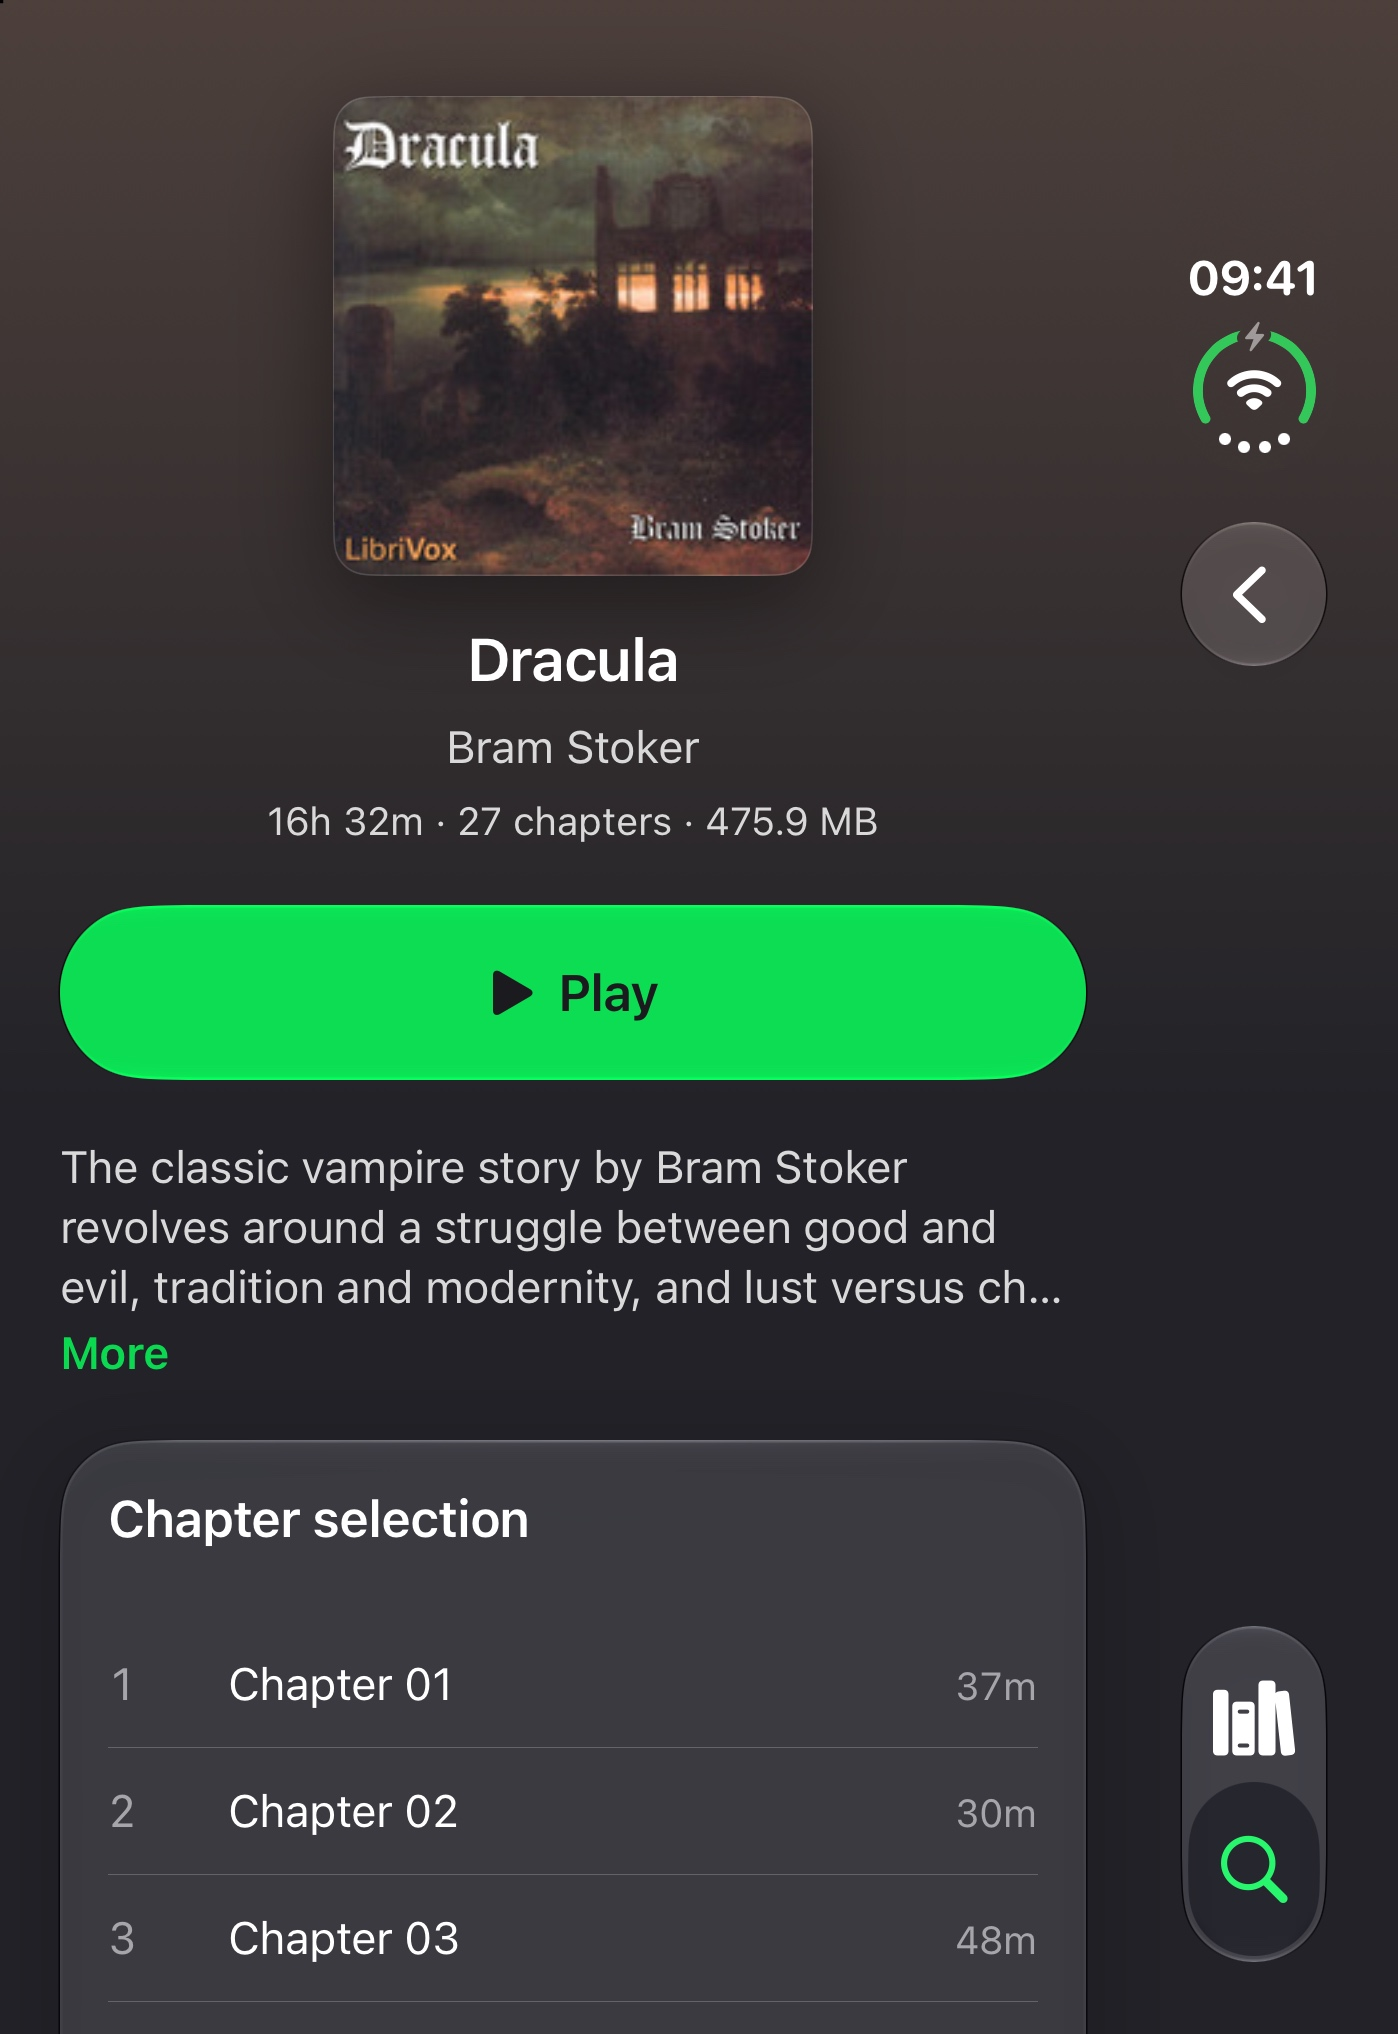
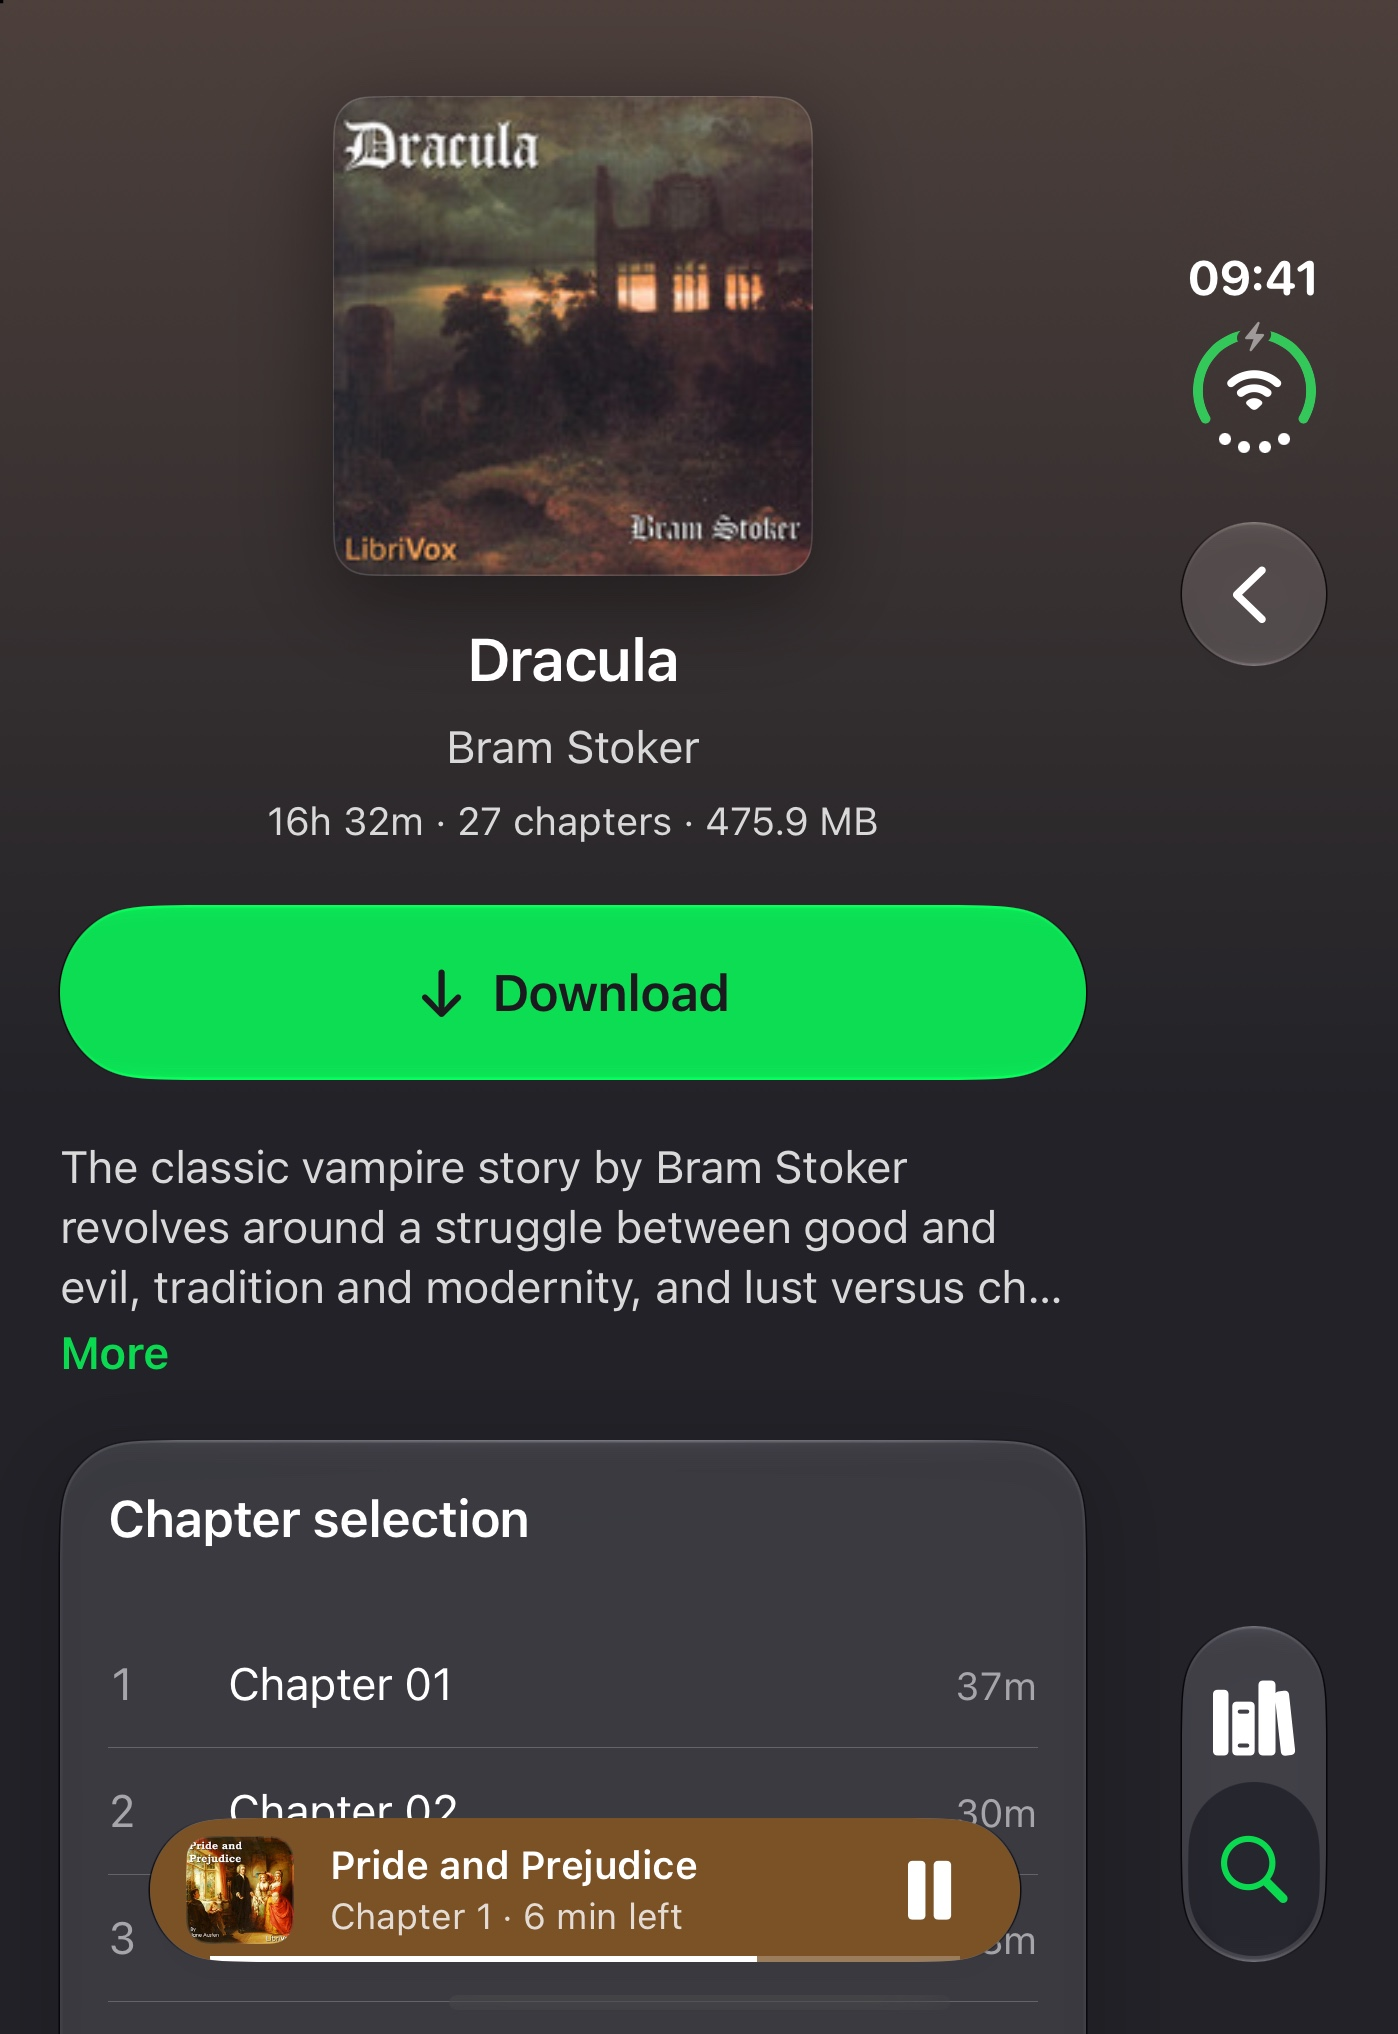
docs(store): iPad and iPhone Duo App Store screenshots for 1.3.0; capture.sh (#282)
Part of #265 (iPad screenshots) and #252 (reproducible capture).

## What shipped

**New and retaken App Store screenshots, from 1.3.0's adaptive layout,** in en-US and pt-BR, with the same libraries as before:
- **English:** *Pride and Prejudice* playing, Popular on LibriVox, *Dracula*'s page.
- **Brazilian:** *Dom Casmurro* playing, a "Machado de Assis" search, *O Alienista*'s page.

| Slot | Files | Size | |
|---|---|---|---|
| iPad 13-inch | `ipad-13_*` | 2064 × 2752 | **New**: required now that Abbay is universal |
| iPhone Duo, inner display | `duo-inner_*` | 2853 × 2007 | Retaken: the split layout instead of a centred phone column |
| iPhone Duo, outer display | `duo-outer_*` | 1398 × 2034 | Retaken: the grid fits beside the side strip, and the player clears it |

The iPhone 6.9" and 6.3" sets are unchanged (the owner's call: their portrait layout didn't change). All 30 new files are JPEG, RGB, with no alpha channel.

**Capture tooling (#252), now in the repo:**
- `StoreConfig/screenshots/capture.sh <udid> <en-US|pt-BR> <slot> [library-udid]` builds the app, copies a language's demo library into the simulator and sets a 9:41 status bar.
- It then runs `StoreScreenshotsUITests/test_storeScreens`, which drives the five screens and requests each shot. The script takes it with `simctl io screenshot`, the only capture that sees the unfolded Duo's inner display, and writes the JPEGs.
[…]

Changed region(s): [[0.0923, 0.8673, 0.7382, 0.9912], [0.3076, 0.4646, 0.5229, 0.4956], [0.8612, 0.8982, 0.9227, 0.9292]]

diff --git a/AbbayUITests/StoreScreenshotsUITests.swift b/AbbayUITests/StoreScreenshotsUITests.swift
@@ -1,0 +1,207 @@
+//
+//  StoreScreenshotsUITests.swift
+//  AbbayUITests
+//
+
+import XCTest
+
+/// Drives the five App Store screens (#252) on a simulator that holds a demo library, and asks
+/// `StoreConfig/screenshots/capture.sh` to take each shot (`xcrun simctl io screenshot`, which also
+/// sees the unfolded iPhone Duo's inner display). Runs only from that script: without
+/// `ABBAY_STORE_SHOTS_DIR` every test here skips.
+///
+/// The screens, per language's library:
+/// 1. the library, with the hero book loaded in the mini player;
+/// 2. its player (beside the library on a split window);
+/// 3. its chapters (the panel, or beside the player);
+/// 4. LibriVox search (Popular in English, a "Machado de Assis" search in Portuguese);
+/// 5. a LibriVox book page (*Dracula*, *O Alienista*).
+///
+/// Nothing is downloaded or deleted, so a rerun starts from the same state.
+final class StoreScreenshotsUITests: XCTestCase {
+    private var app = XCUIApplication()
+
+    private var environment: [String: String] { ProcessInfo.processInfo.environment }
+    private var directory: String? { environment["ABBAY_STORE_SHOTS_DIR"].flatMap { $0.isEmpty ? nil : $0 } }
+    private var prefix: String { environment["ABBAY_STORE_SHOTS_PREFIX"] ?? "shot" }
+    private var isPortuguese: Bool { environment["ABBAY_STORE_SHOTS_LANG"] == "pt-BR" }
+
+    /// The book playing in the shots, the search and the book page, per library.
+    private var heroTitle: String { isPortuguese ? "Dom Casmurro" : "Pride and Prejudice" }
+    private var searchedTitle: String { isPortuguese ? "Alienista" : "Dracula" }
+
+    override func setUpWithError() throws {
+        try super.setUpWithError()
+        continueAfterFailure = false
+        guard directory != nil else {
+            throw XCTSkip("App Store screenshots run from StoreConfig/screenshots/capture.sh")
+        }
+        app = XCUIApplication()
+    }
+
+    // MARK: - Helpers
+
+    private func element(_ identifier: String) -> XCUIElement {
+        app.descendants(matching: .any).matching(identifier: identifier).firstMatch
+    }
+
+    /// The element, waited for. When it never comes, a `debug` shot shows the screen instead.
+    private func need(_ identifier: String, timeout: TimeInterval = 30) -> XCUIElement {
+        let found = element(identifier)
+        if !found.waitForExistence(timeout: timeout) {
+            shot("debug-\(identifier)")
+            XCTFail("no \(identifier)")
+        }
+        return found
+    }
+
+    /// Writes `<prefix>-<name>.request` and waits while the script takes the shot and deletes it.
+    private func shot(_ name: String) {
+        guard let directory else { return }
+        let request = URL(fileURLWithPath: directory).appendingPathComponent("\(prefix)-\(name).request")
+        try? Data().write(to: request)
+        let deadline = Date().addingTimeInterval(30)
+        while FileManager.default.fileExists(atPath: request.path), Date() < deadline {
+            usleep(200_000)
+        }
+    }
+
+    private func launch() {
+        let language = isPortuguese ? "pt-BR" : "en"
+        let locale = isPortuguese ? "pt_BR" : "en_US"
+        app.launchArguments = ["-AppleLanguages", "(\(language))", "-AppleLocale", locale]
+        app.launch()
+        dismissSiriPrompt()
+        XCTAssertTrue(need(AccessibilityID.Library.list, timeout: 40).exists)
+    }
+
+    /// The first launch on a fresh simulator asks to use Abbay with Siri (the app requests it at
+    /// launch); the alert would sit over the first shots.
+    private func dismissSiriPrompt() {
+        let springboard = XCUIApplication(bundleIdentifier: "com.apple.springboard")
+        let allow = springboard.alerts.buttons.element(boundBy: 1)
+        if springboard.alerts.firstMatch.waitForExistence(timeout: 5), allow.exists {
+            allow.tap()
+        }
+    }
+
+    // MARK: - Screens
+
+    func test_storeScreens() throws {
+        launch()
+        // 1. The library, with the hero book loaded (Continue's Resume plays it).
+        startHeroBook()
+        let bar = need(AccessibilityID.MiniPlayer.bar, timeout: 40)
+        XCTAssertTrue(bar.label.contains(heroTitle), "the bar plays \(bar.label), not \(heroTitle)")
+        sleep(4)
+        shot("1-library")
+
+        // 2. Its player.
+        bar.tap()
+        _ = need(AccessibilityID.Player.title)
+        sleep(4)
+        shot("2-player")
+
+        // 3. Its chapters, scrolled to the current one.
+        need(AccessibilityID.Player.chapters).tap()
+        _ = need(AccessibilityID.Player.chapter(0))
+        sleep(5)
+        shot("3-chapters")
+        need(AccessibilityID.Player.chapters).tap()
+        sleep(1)
+        need(AccessibilityID.Player.close).tap()
+        sleep(2)
+
+        // 4. LibriVox search, and 5. a book page.
+        let result = searchResult()
+        shot("4-search")
+
+        revealAboveMiniPlayer(result)
+        result.tap()
+        // Download, or Play when the book is already in the library.
+        _ = need(AccessibilityID.Detail.view, timeout: 30)
+        let action = element(AccessibilityID.Detail.download)
+        if !action.waitForExistence(timeout: 20) {
+            XCTAssertTrue(element(AccessibilityID.Detail.play).waitForExistence(timeout: 10), "no Download or Play")
+        }
+        // Wait for LibriVox's chapter titles (#258), then for the cover.
+        let loading = element(AccessibilityID.Detail.chapterTitleLoading(0))
+        let deadline = Date().addingTimeInterval(30)
+        while loading.exists, Date() < deadline {
+            usleep(250_000)
+        }
+        sleep(3)
+        shot("5-detail")
+    }
+
+    /// Plays the hero book: Continue's Resume when the library remembers it as last played, else
+    /// its cell's player (Play, then close), which also makes it last played for the Continue card.
+    /// A copied library's last played can be hidden behind the simulator's cached preferences.
+    private func startHeroBook() {
+        let resume = element(AccessibilityID.Library.continueResume)
+        if resume.waitForExistence(timeout: 15) {
+            resume.tap()
+            return
+        }
+        let isHero = NSPredicate(
+            format: "identifier BEGINSWITH 'library.row.' AND identifier ENDSWITH '.title' AND label CONTAINS %@",
+            heroTitle
+        )
+        let cell = app.descendants(matching: .any).matching(isHero).firstMatch
+        XCTAssertTrue(cell.waitForExistence(timeout: 20), "no \(heroTitle) in the library")
+        cell.tap()
+        need(AccessibilityID.Player.transport(AccessibilityID.Transport.play)).tap()
+        sleep(2)
+        need(AccessibilityID.Player.close).tap()
+        sleep(2)
+    }
+
+    /// Scrolls the search page until `target` sits above the mini player (a tap behind the bar
+    /// opens the player instead).
+    private func revealAboveMiniPlayer(_ target: XCUIElement) {
+        let bar = element(AccessibilityID.MiniPlayer.bar)
+        for _ in 0..<3 where bar.exists && target.frame.maxY > bar.frame.minY - 8 {
+            let start = target.coordinate(withNormalizedOffset: CGVector(dx: 0.5, dy: 0.2))
+            start.press(forDuration: 0.05, thenDragTo: start.withOffset(CGVector(dx: 0, dy: -220)))
+            sleep(1)
+        }
+    }
+
+    /// Opens Search and returns the book to open: a Popular card in English, a "Machado de Assis"
+    /// result in Portuguese.
+    private func searchResult() -> XCUIElement {
+        need(AccessibilityID.Root.tabSearch).tap()
+        if isPortuguese {
+            let field = app.searchFields.firstMatch
+            XCTAssertTrue(field.waitForExistence(timeout: 30), "no search field")
+            sleep(2)
+            field.tap()
+            field.typeText("Machado de Assis\n")
+            let isResult = NSPredicate(
+                format: "identifier BEGINSWITH 'search.result.' AND label CONTAINS[c] %@",
+                searchedTitle
+            )
+            let result = app.buttons.matching(isResult).firstMatch
+            XCTAssertTrue(result.waitForExistence(timeout: 30), "no \(searchedTitle) result")
+            // A short drag on the results hides the keyboard, which submitting leaves up on a
+            // phone-sized window; the list is at its top, so it springs back.
+            let keyboard = app.keyboards.firstMatch
+            for _ in 0..<3 where keyboard.exists {
+                let start = result.coordinate(withNormalizedOffset: CGVector(dx: 0.5, dy: 0.5))
+                start.press(forDuration: 0.05, thenDragTo: start.withOffset(CGVector(dx: 0, dy: 80)))
+                _ = keyboard.waitForNonExistence(timeout: 2)
+            }
+            // Let the result covers arrive.
+            sleep(6)
+            return result
+        }
+        let isCard = NSPredicate(
+            format: "identifier BEGINSWITH 'search.card.' AND label BEGINSWITH %@",
+            searchedTitle
+        )
+        let result = app.buttons.matching(isCard).firstMatch
+        XCTAssertTrue(result.waitForExistence(timeout: 30), "no \(searchedTitle) card")
+        sleep(6)
+        return result
+    }
+}

diff --git a/StoreConfig/README.md b/StoreConfig/README.md
@@ -72,6 +72,7 @@ anything above None there would make the app 18+. The expected result is 13+.
 |---|---|---|
 | iPhone with Dynamic Island (medium display) | 1206 × 2622 | **Yes** |
 | iPhone with Dynamic Island (large display) | 1320 × 2868 | No (scaled from medium otherwise) |
+| iPad 13-inch | 2064 × 2752 (portrait) | **Yes** (Abbay is universal since 1.2.0) |
 | iPhone Duo, outer display | 1398 × 2034 | Not yet (from April 2027 with the iOS 27.1 SDK) |
 | iPhone Duo, inner display | 2853 × 2007 (landscape) | Not yet |
 
@@ -81,18 +82,42 @@ The images are in `screenshots/<language>/`, named `<slot>_<n>-<screen>.jpg`:
 
 - `iphone-6.3`: upload to "iPhone with Dynamic Island (medium display)"
 - `iphone-6.9`: upload to "iPhone with Dynamic Island (large display)"
-- `duo-outer`: upload to the iPhone Duo outer display. A retake after the clipped-grid fix is
-  tracked in #251.
+- `ipad-13`: upload to "iPad 13-inch"
+- `duo-outer`: upload to the iPhone Duo outer display
 - `duo-inner`: upload to the iPhone Duo inner display
 
-The order is library (with Continue), player, chapter list, LibriVox search, then book detail.
+The order is library (with Continue, the hero book playing), player, chapter list, LibriVox search,
+then a book page. On the iPad and the unfolded Duo the player opens beside the library and the
+chapters beside the player (the adaptive layout of 1.2.0 and 1.3.0).
 
-- **en-US:** captured from the 1.0.1 release build with the English classics from the landing-page footage (*Pride and Prejudice* playing, *Dracula*'s page).
-- **pt-BR:** captured from the 1.0.3 release build with a library of Brazilian books, the same as the landing page's Portuguese clips:
+- **en-US:** the English classics from the landing-page footage (*Pride and Prejudice* playing,
+  Popular on LibriVox, *Dracula*'s page).
+- **pt-BR:** a library of Brazilian books, the same as the landing page's Portuguese clips:
   - Machado de Assis, José de Alencar, Lima Barreto, Euclides da Cunha, Aluísio Azevedo, Raul Pompéia;
   - *Dom Casmurro* playing;
   - a search for "Machado de Assis";
   - *O Alienista*'s page.
 
-  The 6.3" set is native (iPhone 17); the 6.9" and Duo sets are from the same library copied to those simulators.
-The capture tooling isn't in the repo yet (#252).
+The iPhone sets were captured from 1.0.1 (en-US) and 1.0.3 (pt-BR); their portrait layout hasn't
+changed. The Duo and iPad sets are from 1.3.0, with `capture.sh`.
+
+### Capturing
+
+```bash
+StoreConfig/screenshots/capture.sh <simulator-udid> <en-US|pt-BR> <slot> [library-udid]
+```
+
+- **What it does:** builds the app and its UI tests, copies the demo library from `[library-udid]`
+  (a simulator whose Abbay holds it), sets a 9:41 status bar, and runs
+  `StoreScreenshotsUITests/test_storeScreens`. The test drives the five screens and asks for each
+  shot; the script takes it with `xcrun simctl io screenshot` and writes the JPEGs above.
+- **Why `simctl`:** on the unfolded iPhone Duo, XCUITest's own screenshots show the dark outer
+  display; `simctl` sees the inner one.
+- **Libraries:** the English and Brazilian libraries live on the local simulators *Abbay-landing*
+  and *Abbay-landing-pt* (built by downloading the books in the app). They aren't in the repo:
+  they hold gigabytes of LibriVox audio.
+- **The Duo's posture** is set by hand in DeviceHub (fold or unfold the simulator first); there is no
+  `simctl` command for it.
+- **iPad:** use a 13-inch iPad simulator; it opens the app full screen (a smaller one can open a
+  window). The test allows Siri's permission alert on a fresh simulator.
+- **Nothing is downloaded or deleted,** so a rerun starts from the same state.
